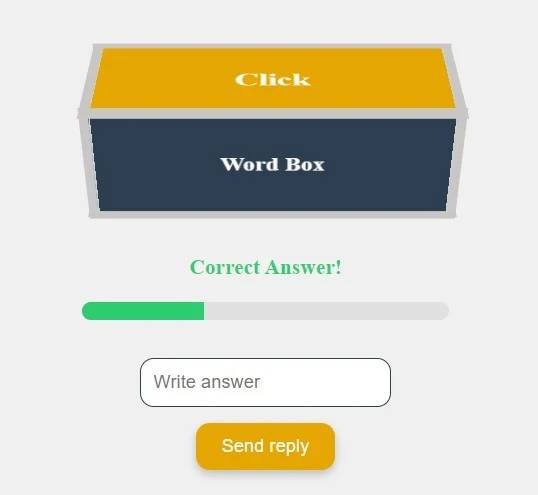
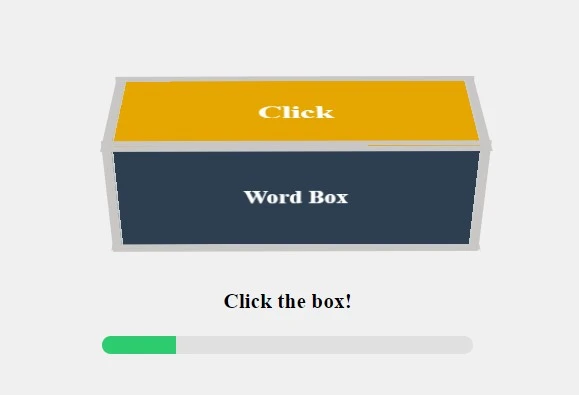
addedd new property level learn test

diff --git a/public/js/learn-level.js b/public/js/learn-level.js
@@ -35,9 +35,8 @@ document.addEventListener("DOMContentLoaded", function () {
             console.error('Hata:', error);
         });
 
-
     function showGameResult(correctAnswers) {
-        const point = ((correctAnswers / 43) * 100).toFixed(2);
+        const point = ((correctAnswers / 36) * 100).toFixed(2);
         let message_ = "";
 
         if (point >= 90) {
@@ -45,45 +44,38 @@ document.addEventListener("DOMContentLoaded", function () {
         <div style="text-align: center;"><h2>Kelime testi tamamlandı!</h2></div>
         <h3 class="yellow-color">Başarı: ${point}%</h3>
         <p>Performansınız mükemmel! <strong>C2</strong> seviyesine ulaştınız.</p>
-        <p>Sonuçlar: Dili mükemmel bir şekilde kavradınız!</p>
     `;
         } else if (point >= 80) {
             message_ = `
         <div style="text-align: center;"><h2>Kelime testi tamamlandı!</h2></div>
         <h3 class="yellow-color">Başarı: ${point}%</h3>
         <p>Performansınız çok iyi! <strong>C1</strong> seviyesine ulaştınız.</p>
-        <p>Sonuçlar: Dili çok güçlü bir şekilde kavradınız!</p>
     `;
         } else if (point >= 70) {
             message_ = `
         <div style="text-align: center;"><h2>Kelime testi tamamlandı!</h2></div>
         <h3 class="yellow-color">Başarı: ${point}%</h3>
         <p>Performansınız iyi! <strong>B2</strong> seviyesine ulaştınız.</p>
-        <p>Sonuçlar: Dili iyi bir şekilde kavradınız!</p>
     `;
         } else if (point >= 55) {
             message_ = `
         <div style="text-align: center;"><h2>Kelime testi tamamlandı!</h2></div>
         <h3 class="yellow-color">Başarı: ${point}%</h3>
         <p>Performansınız tatmin edici! <strong>B</strong> seviyesine ulaştınız.</p>
-        <p>Sonuçlar: Dili tatmin edici bir şekilde kavradınız.</p>
     `;
         } else if (point >= 40) {
             message_ = `
         <div style="text-align: center;"><h2>Kelime testi tamamlandı!</h2></div>
         <h3 class="yellow-color">Başarı: ${point}%</h3>
         <p>Performansınız ortalama. <strong>A2</strong> seviyesine ulaştınız.</p>
-        <p>Sonuçlar: Dili temel bir şekilde kavradınız.</p>
     `;
         } else {
             message_ = `
         <div style="text-align: center;"><h2>Kelime testi tamamlandı!</h2></div>
         <h3 class="yellow-color">Başarı: ${point}%</h3>
         <p>Performansınızın geliştirilmesi gerekiyor. Şu anda <strong>A1</strong> seviyesindesiniz.</p>
-        <p>Sonuçlar: Dili daha iyi kavrayabilmek için geliştirilmesi gereken alanlar var.</p>
     `;
         }
-
         document.getElementById("resultMessage").innerHTML = message_ + message;
         modal.style.display = "block";
     }
@@ -103,22 +95,22 @@ document.addEventListener("DOMContentLoaded", function () {
     }
 
     topFace.addEventListener("click", function () {
-        answerSection.style.display = "flex";
-
         if (box.classList.contains("open-top")) {
-            console.log(words);
-            submitAnswerButton.disabled = true;
             if (ask_index < ask_line) {
+                answerSection.style.display = "none";
+                answerText.style.color="black";
+                answerText.innerText = "Click the box!";
                 setTimeout(() => {
                     document.getElementById('box').classList.add('shake');
-                }, 1000);
+                }, 400);
             }
             box.classList.remove("open-top");
         }
         else {
-            document.getElementById('box').classList.remove('shake');
-
-            if (ask_index < ask_line) {
+            answerSection.style.display = "flex";
+            setTimeout(() => {
+                document.getElementById('box').classList.remove('shake');
+            }, 100);             if (ask_index < ask_line) {
                 submitAnswerButton.disabled = false;
                 box.classList.toggle("open-top");
                 createAsk();
@@ -132,7 +124,6 @@ document.addEventListener("DOMContentLoaded", function () {
     function createAsk() {
         topFace.classList.add("disabled");
         ask_index++;
-
         let randomIndex;
 
         do {
@@ -156,12 +147,12 @@ document.addEventListener("DOMContentLoaded", function () {
             } else {
                 questionText.textContent = `What is the Turkish translation of "${currentWord.english}"?`;
             }
-
         }, { once: true });
     }
 
     submitAnswerButton.addEventListener("click", function () {
-
+        submitAnswerButton.disabled = true ;
+        window.scrollTo(0, 0);
         let isCorrect = false;
         const answer = userAnswer.value.trim().toLowerCase();
         let correctAnswer = askEnglish ? currentWord.english.toLowerCase() : currentWord.turkish.toLowerCase();
@@ -181,14 +172,14 @@ document.addEventListener("DOMContentLoaded", function () {
             ${currentWord.english} = ${currentWord.turkish} 
             <span>❌</span></span><br>`;
         }
-        topFace.classList.remove("disabled");
         updateProgress(isCorrect);
         setTimeout(() => {
             userAnswer.value = "";
             answerText.innerText = "";
             questionText.innerText = "";
+            topFace.classList.remove("disabled");
             topFace.click();
-        }, 2000);
+        }, 1700);
 
     });
 
@@ -238,5 +229,4 @@ document.addEventListener("DOMContentLoaded", function () {
             }, 2000);
         });
     });
-
 }); 

diff --git a/public/js/boxes.js b/public/js/boxes.js
@@ -56,17 +56,22 @@ document.addEventListener("DOMContentLoaded", function () {
 
     document.getElementById("words").remove(); 
     topFace.addEventListener("click", function () {
-        answerSection.style.display = "flex";
         if (box.classList.contains("open-top")) {
+            answerSection.style.display = "none";
+            answerText.style.color="black";
+            answerText.innerText = "Click the box!";
             if(ask_index<ask_line){
                 setTimeout(() => {
                     document.getElementById('box').classList.add('shake');
-                }, 25);
+                }, 400);
             }
             box.classList.remove("open-top");
         }
         else {
-            document.getElementById('box').classList.remove('shake');
+            answerSection.style.display = "flex";
+            setTimeout(() => {
+                document.getElementById('box').classList.remove('shake');
+            }, 100);            
             if (ask_index < ask_line) {
                 submitAnswerButton.disabled = false;
                 box.classList.toggle("open-top");
@@ -110,6 +115,7 @@ document.addEventListener("DOMContentLoaded", function () {
 
     submitAnswerButton.addEventListener("click", function () {
         submitAnswerButton.disabled = true ;
+        window.scrollTo(0, 0);
         let isCorrect = false;
         const answer = userAnswer.value.trim().toLowerCase();
         let correctAnswer = askEnglish ? currentWord.English.toLowerCase() : currentWord.Turkish.toLowerCase();
@@ -136,7 +142,7 @@ document.addEventListener("DOMContentLoaded", function () {
             questionText.innerText = "";
             topFace.classList.remove("disabled");
             topFace.click();
-        }, 1880);
+        }, 1700);
     });
 
     function updateProgress(isCorrect) {

diff --git a/public/js/idbox.js b/public/js/idbox.js
@@ -61,17 +61,22 @@ document.addEventListener("DOMContentLoaded", function () {
     }
 
     topFace.addEventListener("click", function () {
-        answerSection.style.display = "flex";
         if (box.classList.contains("open-top")) {
             if(ask_index<ask_line){
+                answerSection.style.display = "none";
+                answerText.style.color="black";
+                answerText.innerText = "Click the box!";
                 setTimeout(() => {
                     document.getElementById('box').classList.add('shake');
-                }, 25);
+                }, 400);
             }
             box.classList.remove("open-top");
         }
         else {
-            document.getElementById('box').classList.remove('shake');
+            answerSection.style.display = "flex";
+            setTimeout(() => {
+                document.getElementById('box').classList.remove('shake');
+            }, 100);
             if (ask_index < ask_line) {
                 submitAnswerButton.disabled = false;
                 box.classList.toggle("open-top");
@@ -114,6 +119,7 @@ document.addEventListener("DOMContentLoaded", function () {
 
     submitAnswerButton.addEventListener("click", function () {
         submitAnswerButton.disabled = true;
+        window.scrollTo(0, 0);
         let isCorrect = false;
         const answer = userAnswer.value.trim().toLowerCase();
         let correctAnswer = askEnglish ? currentWord.english.toLowerCase() : currentWord.turkish.toLowerCase();
@@ -140,7 +146,7 @@ document.addEventListener("DOMContentLoaded", function () {
             questionText.innerText = "";
             topFace.classList.remove("disabled");
             topFace.click();
-        }, 1880);
+        }, 1700);
     });
 
     function updateProgress(isCorrect) {

diff --git a/routes/users.js b/routes/users.js
@@ -12,8 +12,8 @@ router.use("/seviye-ogrenme-testi", async (req, res) => {
 
 router.use("/seviye-ogren", async (req, res) => {
     try {
-        var [data,] = await db.execute("SELECT * FROM words WHERE level IN ('A', 'A+', 'A++') ORDER BY RAND() LIMIT 12");
-        var [dataB,] = await db.execute("SELECT * FROM words WHERE level IN ('B', 'B+', 'B++') ORDER BY RAND() LIMIT 8");
+        var [data,] = await db.execute("SELECT * FROM words WHERE level IN ('A', 'A+', 'A++') ORDER BY RAND() LIMIT 9");
+        var [dataB,] = await db.execute("SELECT * FROM words WHERE level IN ('B', 'B+', 'B++') ORDER BY RAND() LIMIT 6");
         var [dataC,] = await db.execute("SELECT * FROM words WHERE level IN ('C', 'C+', 'C++') ORDER BY RAND() LIMIT 5");
         
         data.forEach(item => item.point = 1); 

diff --git a/public/css/box.css b/public/css/box.css
@@ -271,7 +271,7 @@
         padding: 4px;
     }
     .modal-content {
-        margin-top: 25px;
+        margin: 25px auto;
         width: 80%; 
         padding: 10px; 
     }
@@ -287,5 +287,8 @@
     .progress-container{
         height: 12px;
         width: 65%;
+    }
+    #retryButton{
+        margin-bottom: 30px;
     }
 }
